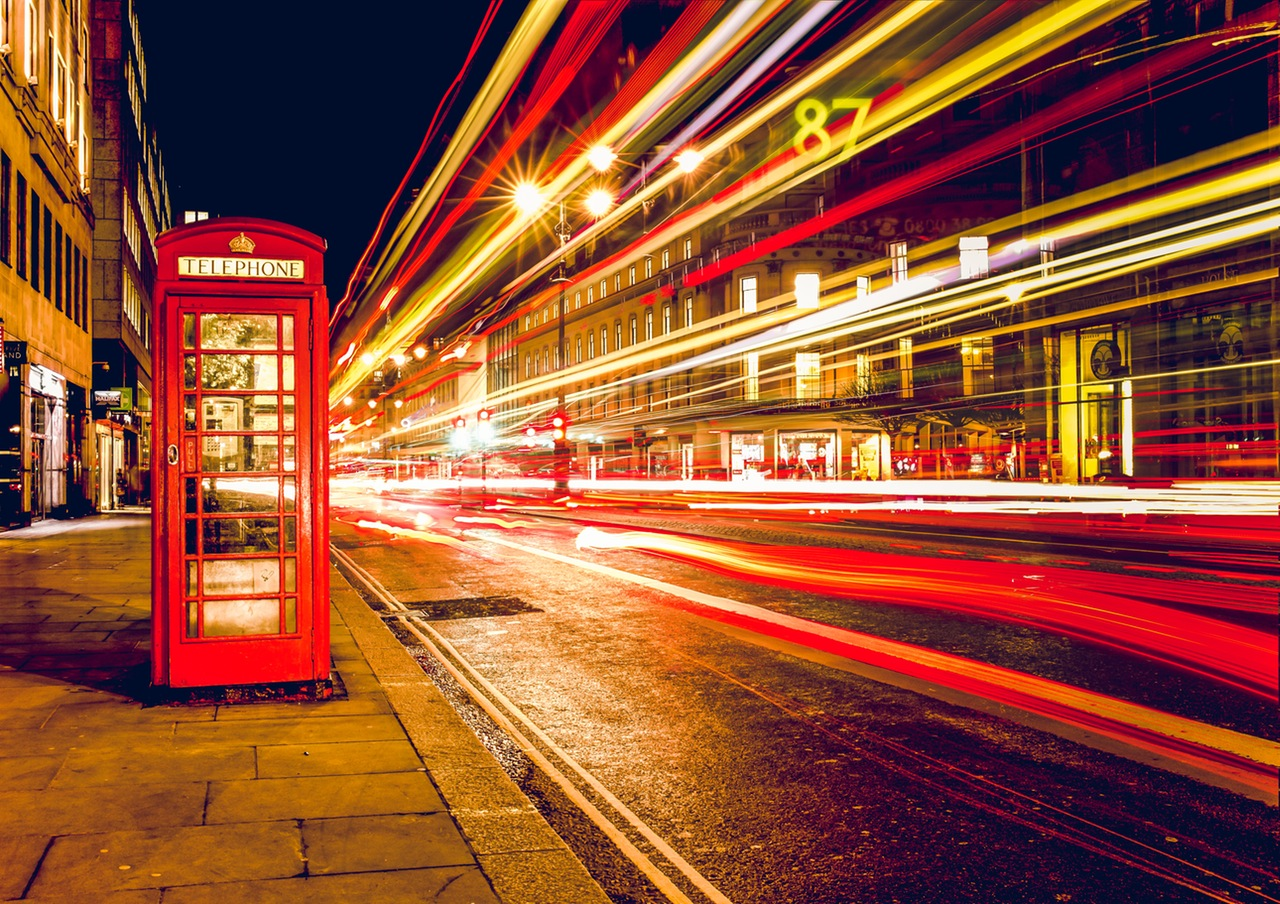
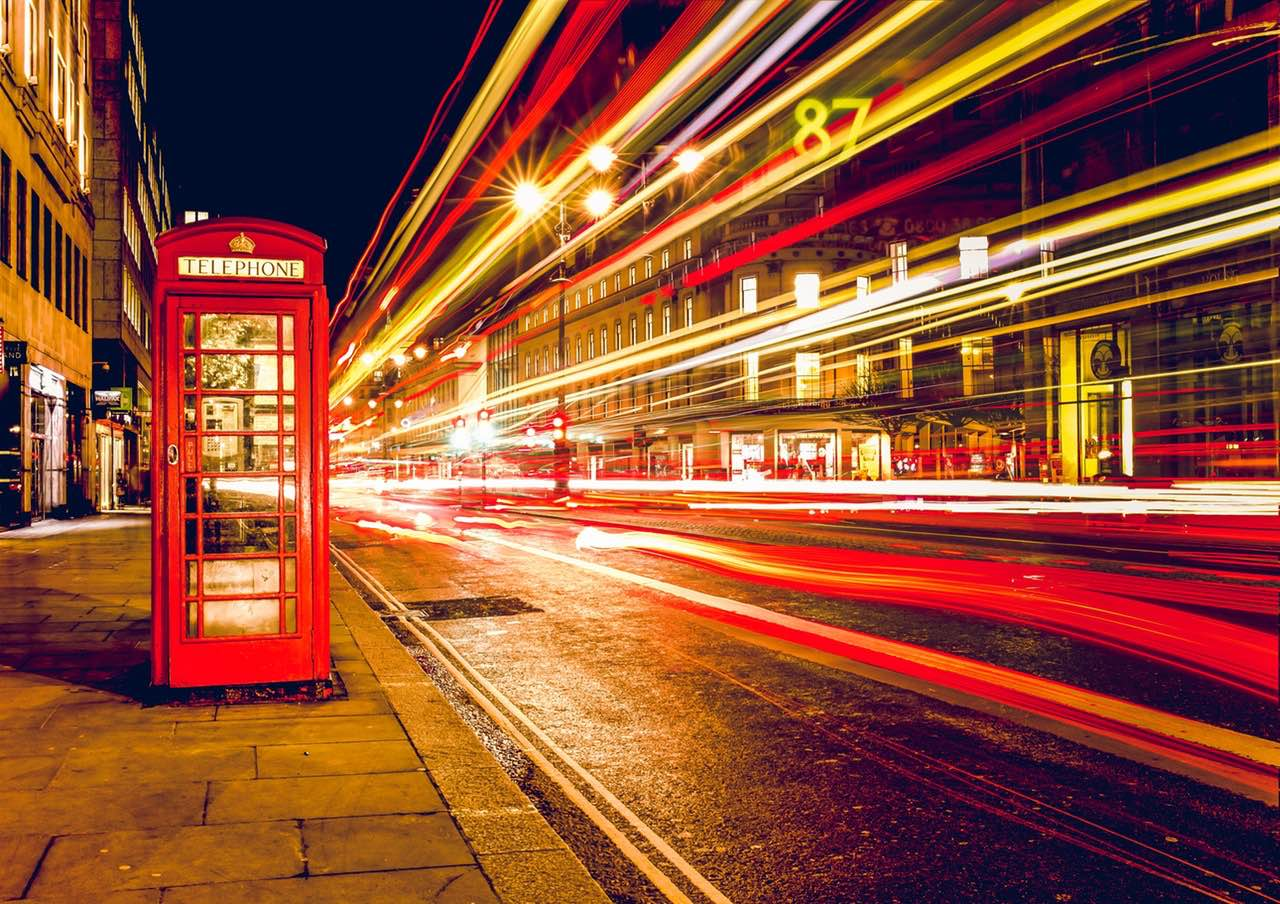
Optimize telephone booth images

diff --git a/_posts/2016-06-16-pagespeed-100-with-jekyll-s3-and-cloudfront.md b/_posts/2016-06-16-pagespeed-100-with-jekyll-s3-and-cloudfront.md
@@ -13,7 +13,7 @@ tags:
 header:
   overlay_image: london-telephone-booth-6618_1024.jpg
   overlay_filter: 0.5
-  teaser: london-telephone-booth-6618_500x352.jpg
+  teaser: london-telephone-booth-6618_512.jpg
 ---
 {% include toc %}
 
